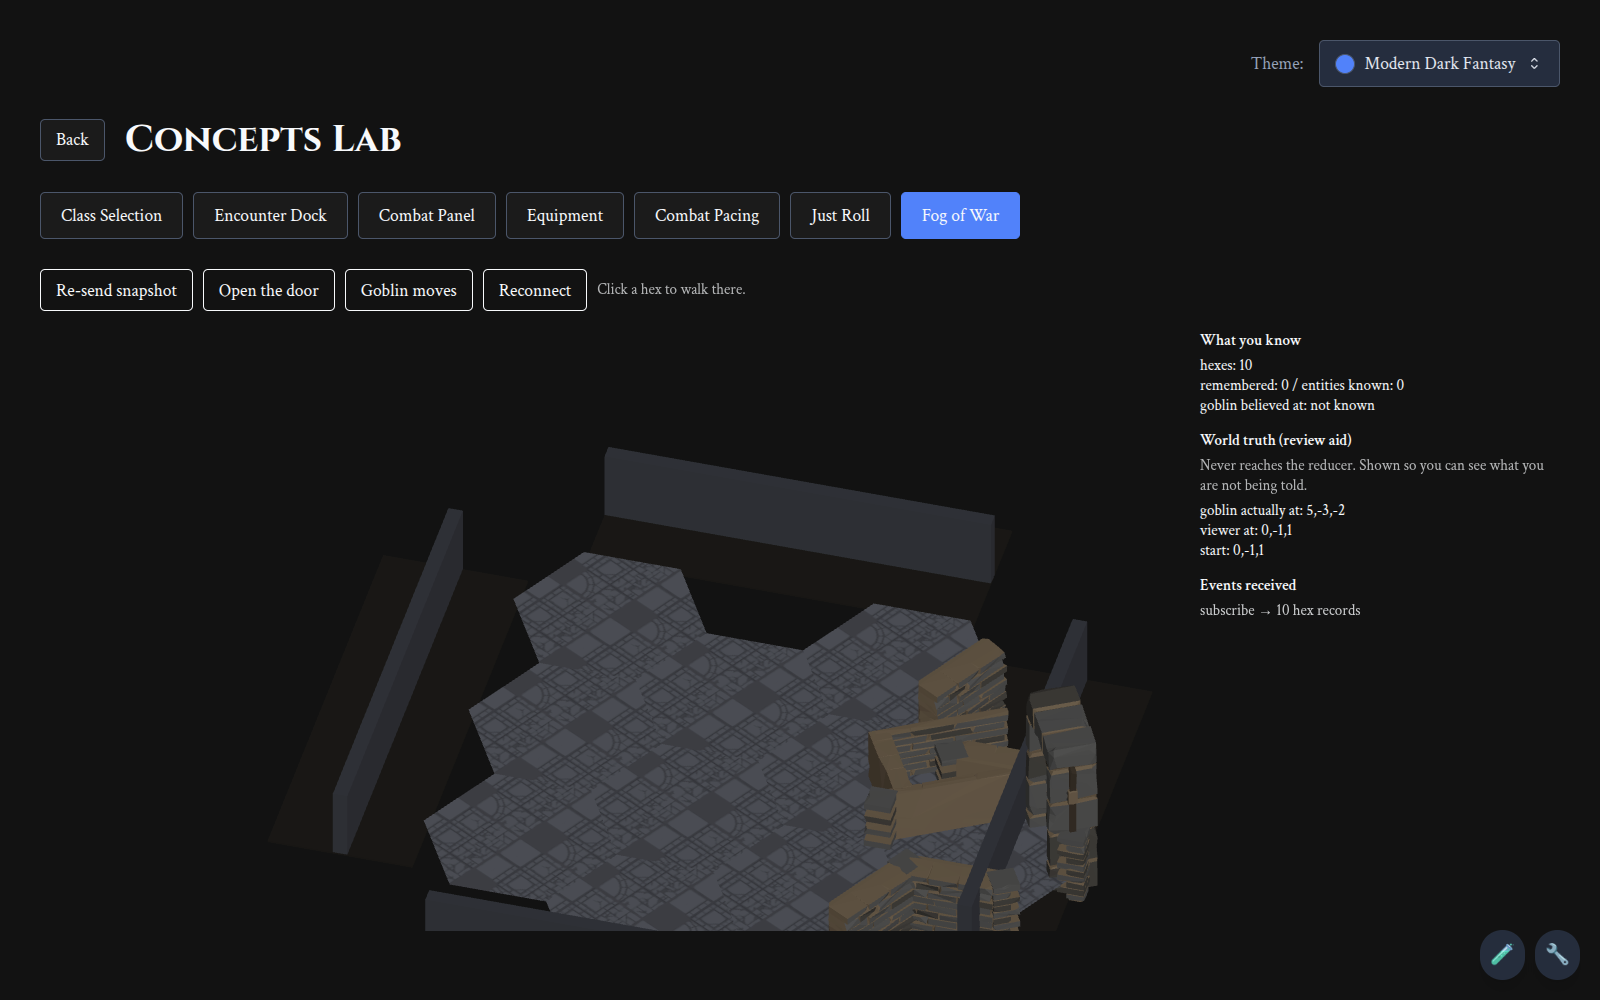
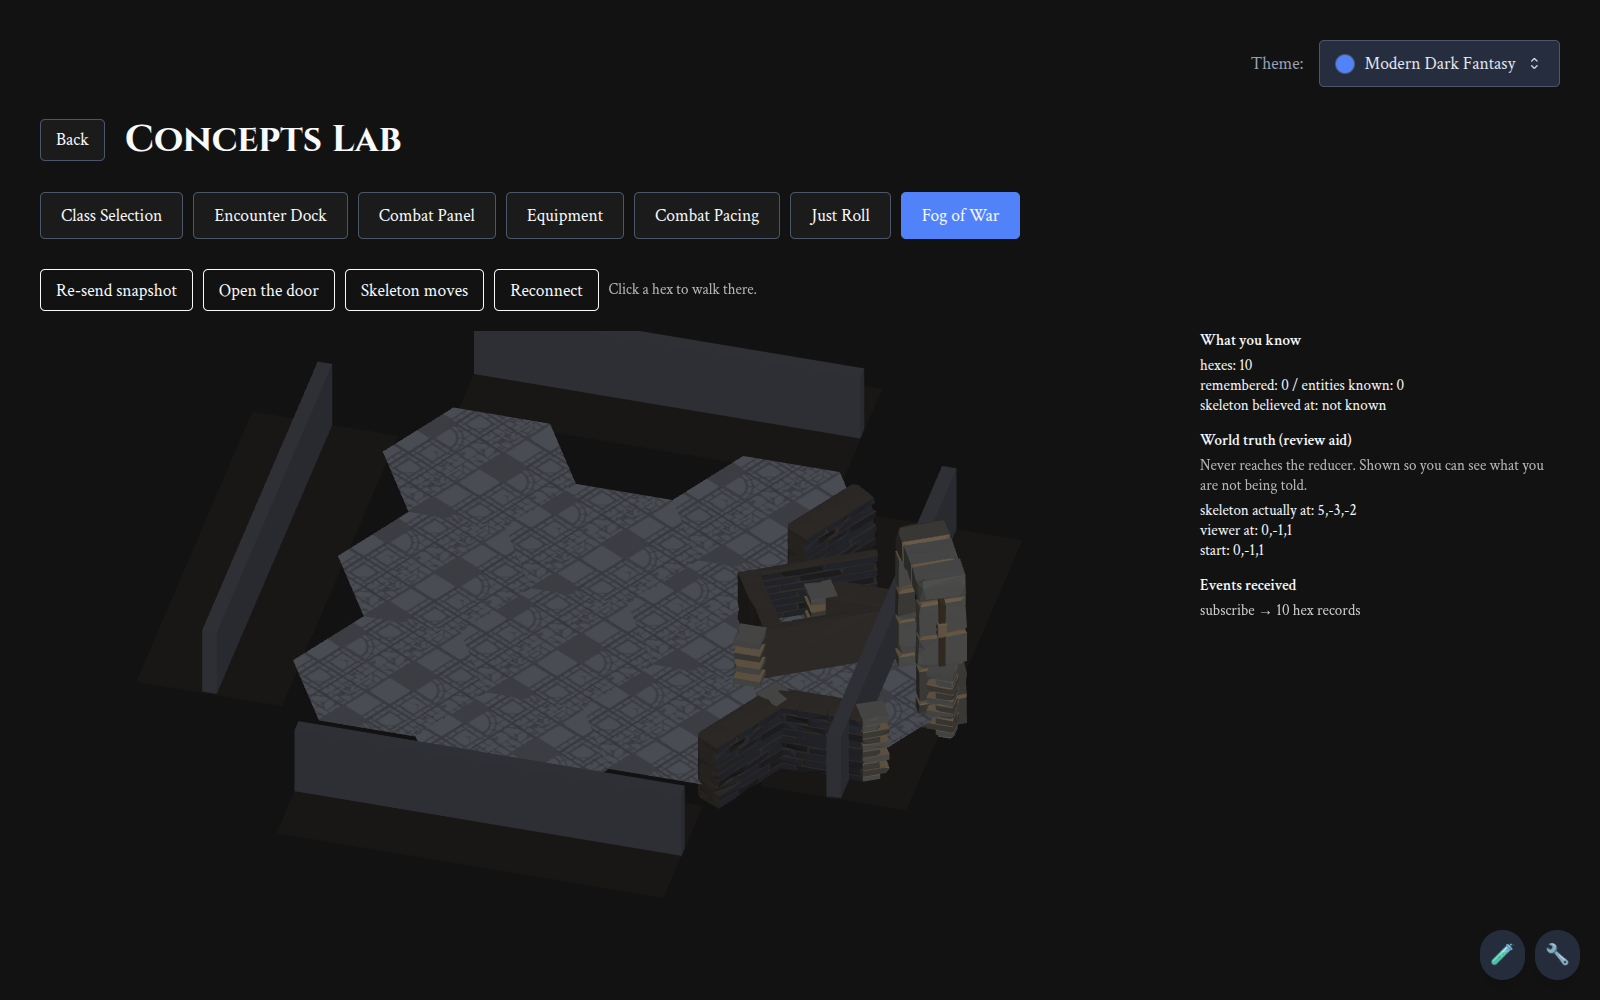
feat(fog): use the real skeleton model instead of an unmapped goblin
Kirk asked. It is also strictly better: monsterRefId 'skeleton' resolves to
/models/synty/npcs/skeleton-soldier-01.glb, while 'goblin' resolves to nothing
(monsterModels.ts documents that gap by name). The concept's monster was
therefore falling back to the cel-shaded MediumHumanoid placeholder — the
blocky red-and-green figure in the earlier evidence.

Two things follow beyond looking right. Skeletons are the crypt's actual
roster, so the concept now shows content the game really has. And the
remembered-entity treatment on ClassCharacterModel (#614) is the path a
resolving GLB takes, so the concept exercises it rather than only the
fallback.

Evidence re-captured against the real model. 02 is renamed from
02-goblin-seen.png.

Note on 03: the frozen skeleton renders in full colour because #614 is not
merged into this branch. Room B correctly goes to crypt memory around it. The
frame is honest about the gap rather than staged around it, and should be
re-taken once #614 lands.

30 tests, ci-check green.

Claude-Session: https://claude.ai/code/session_01LzdG4UCKmpJCDgh9ipiqXF

Changed region(s): [[0.125, 0.279, 0.6875, 0.93], [0.75, 0.403, 0.875, 0.434], [0.75, 0.496, 0.8438, 0.527]]

diff --git a/src/concepts/fog-of-war/reducer.test.ts b/src/concepts/fog-of-war/reducer.test.ts
@@ -18,9 +18,9 @@ import { emptyKnowledge, fogReducer } from './reducer';
 
 const at = (q: number, r: number) => ({ x: q, y: r, z: -q - r });
 
-const goblin: FogEntity = {
-  entityId: 'goblin-1',
-  name: 'Goblin',
+const skeleton: FogEntity = {
+  entityId: 'skeleton-1',
+  name: 'Skeleton',
   type: 'monster',
 };
 
@@ -44,7 +44,7 @@ const remembered = (record: HexRecord): HexRecord => ({
   state: 'REMEMBERED',
 });
 
-const facingNorth: Placement = { entityId: 'goblin-1', facing: 0 };
+const facingNorth: Placement = { entityId: 'skeleton-1', facing: 0 };
 
 describe('fog reducer', () => {
   it('first sight adds a visible hex', () => {
@@ -59,7 +59,7 @@ describe('fog reducer', () => {
   it('a remembered record carries its own frozen observation', () => {
     const seen = fogReducer(emptyKnowledge(), {
       hexes: [visible(0, 0, [facingNorth])],
-      entities: [goblin],
+      entities: [skeleton],
     });
 
     const lost = fogReducer(seen, {
@@ -70,18 +70,18 @@ describe('fog reducer', () => {
     // The server sends what the viewer observed; the client never freezes.
     expect(lost.hexes.get('0,0,0')?.state).toBe('REMEMBERED');
     expect(lost.hexes.get('0,0,0')?.contents).toEqual([facingNorth]);
-    expect(lost.entities.get('goblin-1')).toBeDefined();
+    expect(lost.entities.get('skeleton-1')).toBeDefined();
   });
 
   it('re-sight replaces memory wholesale, deleting a remembered occupant', () => {
-    // design.md case 8 — the load-bearing one. Nothing "forgets" the goblin;
+    // design.md case 8 — the load-bearing one. Nothing "forgets" the skeleton;
     // it is gone because the arriving record states the hex is empty.
-    const believesGoblinIsThere = fogReducer(emptyKnowledge(), {
+    const believesSkeletonIsThere = fogReducer(emptyKnowledge(), {
       hexes: [remembered(visible(0, 0, [facingNorth]))],
-      entities: [goblin],
+      entities: [skeleton],
     });
 
-    const walksUp = fogReducer(believesGoblinIsThere, {
+    const walksUp = fogReducer(believesSkeletonIsThere, {
       hexes: [visible(0, 0)],
       entities: [],
     });
@@ -103,17 +103,17 @@ describe('fog reducer', () => {
   });
 
   it('freezes the facing that was observed, not one seen later', () => {
-    // This viewer saw the goblin facing 0 and lost sight. The goblin later
+    // This viewer saw the skeleton facing 0 and lost sight. The skeleton later
     // turned and another viewer saw that. Facing rides on the placement, so
     // no other viewer's sighting can reach into this viewer's memory.
     const memory = fogReducer(emptyKnowledge(), {
       hexes: [remembered(visible(0, 0, [facingNorth]))],
-      entities: [goblin],
+      entities: [skeleton],
     });
 
-    // The goblin is re-disclosed, but no record arrives for the remembered
+    // The skeleton is re-disclosed, but no record arrives for the remembered
     // hex — nothing about that memory may move.
-    const later = fogReducer(memory, { hexes: [], entities: [goblin] });
+    const later = fogReducer(memory, { hexes: [], entities: [skeleton] });
 
     expect(later.hexes.get('0,0,0')?.contents).toEqual([facingNorth]);
   });
@@ -121,7 +121,7 @@ describe('fog reducer', () => {
   it('applying the same record twice is idempotent', () => {
     const event: HexKnowledgeChanged = {
       hexes: [visible(0, 0, [facingNorth])],
-      entities: [goblin],
+      entities: [skeleton],
     };
 
     const once = fogReducer(emptyKnowledge(), event);
@@ -144,12 +144,12 @@ describe('fog reducer', () => {
   it('is a pure function of the events applied', () => {
     const session: HexKnowledgeChanged[] = [
       {
-        hexes: [visible(0, 0, [{ entityId: 'goblin-1', facing: 2 }])],
-        entities: [goblin],
+        hexes: [visible(0, 0, [{ entityId: 'skeleton-1', facing: 2 }])],
+        entities: [skeleton],
       },
       {
         hexes: [
-          remembered(visible(0, 0, [{ entityId: 'goblin-1', facing: 2 }])),
+          remembered(visible(0, 0, [{ entityId: 'skeleton-1', facing: 2 }])),
         ],
         entities: [],
       },
@@ -165,11 +165,11 @@ describe('fog reducer', () => {
   it('keeps a disclosed entity known after disclosure stops', () => {
     // The entity map is the vocabulary a remembered placement resolves
     // against, so it must outlive current disclosure — otherwise the frozen
-    // goblin would have nothing to render as. This is the entity-side half of
+    // skeleton would have nothing to render as. This is the entity-side half of
     // "nothing is ever deleted".
     const seen = fogReducer(emptyKnowledge(), {
       hexes: [visible(0, 0, [facingNorth])],
-      entities: [goblin],
+      entities: [skeleton],
     });
 
     const lost = fogReducer(seen, {
@@ -179,7 +179,7 @@ describe('fog reducer', () => {
 
     const muchLater = fogReducer(lost, { hexes: [], entities: [] });
 
-    expect(muchLater.entities.get('goblin-1')).toEqual(goblin);
+    expect(muchLater.entities.get('skeleton-1')).toEqual(skeleton);
     expect(muchLater.hexes.get('0,0,0')?.contents).toEqual([facingNorth]);
   });
 });

diff --git a/src/concepts/fog-of-war/authority/authority.test.ts b/src/concepts/fog-of-war/authority/authority.test.ts
@@ -26,12 +26,12 @@ const recordAt = (
   event.hexes.find((hex) => key(hex.position) === key(at(q, r)));
 
 const inRoomB = (record: HexRecord) => record.zoneId === 'room-b';
-const goblinAt = (facing: number) => [{ entityId: 'goblin-1', facing }];
+const skeletonAt = (facing: number) => [{ entityId: 'skeleton-1', facing }];
 
-/** Viewer in Room A watching the goblin through the open doorway. */
-const watchingTheGoblin = () => {
+/** Viewer in Room A watching the skeleton through the open doorway. */
+const watchingTheSkeleton = () => {
   const world = twoRoomCrypt();
-  world.placements.set('goblin-1', { hex: at(4, 2), facing: 0 });
+  world.placements.set('skeleton-1', { hex: at(4, 2), facing: 0 });
   const authority = createAuthority(world);
   authority.subscribe();
   return { authority, opened: authority.setDoor(at(3, 1), DOOR_OPEN) };
@@ -48,7 +48,7 @@ describe('fixture authority', () => {
     // Room B is behind a closed door. It is not mentioned at all — unseen is
     // omission, not an empty record.
     expect(first.hexes.some(inRoomB)).toBe(false);
-    // Nor is the goblin standing in it disclosed.
+    // Nor is the skeleton standing in it disclosed.
     expect(first.entities).toEqual([]);
   });
 
@@ -70,7 +70,7 @@ describe('fixture authority', () => {
     authority.subscribe();
 
     const hidden = authority.mutateHidden((world) => {
-      world.placements.set('goblin-1', { hex: at(6, 0), facing: 3 });
+      world.placements.set('skeleton-1', { hex: at(6, 0), facing: 3 });
     });
 
     expect(hidden.hexes).toEqual([]);
@@ -78,23 +78,23 @@ describe('fixture authority', () => {
   });
 
   it('freezes the entity on the hex when that hex stops being visible', () => {
-    // design.md case 7. The door shuts while the goblin is standing there.
-    const { authority, opened } = watchingTheGoblin();
-    expect(recordAt(opened, 4, 2)?.contents).toEqual(goblinAt(0));
+    // design.md case 7. The door shuts while the skeleton is standing there.
+    const { authority, opened } = watchingTheSkeleton();
+    expect(recordAt(opened, 4, 2)?.contents).toEqual(skeletonAt(0));
 
     const shut = authority.setDoor(at(3, 1), DOOR_CLOSED);
     const frozen = recordAt(shut, 4, 2);
 
     expect(frozen?.state).toBe('REMEMBERED');
-    expect(frozen?.contents).toEqual(goblinAt(0));
+    expect(frozen?.contents).toEqual(skeletonAt(0));
   });
 
   it('a frozen memory survives the entity moving away unseen', () => {
-    const { authority } = watchingTheGoblin();
+    const { authority } = watchingTheSkeleton();
     authority.setDoor(at(3, 1), DOOR_CLOSED);
 
     const wandered = authority.mutateHidden((world) => {
-      world.placements.set('goblin-1', { hex: at(6, 0), facing: 3 });
+      world.placements.set('skeleton-1', { hex: at(6, 0), facing: 3 });
     });
 
     expect(wandered.hexes).toEqual([]);
@@ -102,10 +102,10 @@ describe('fixture authority', () => {
 
   it('re-sighting the frozen hex reports it empty', () => {
     // design.md case 8 — the load-bearing one, end to end.
-    const { authority } = watchingTheGoblin();
+    const { authority } = watchingTheSkeleton();
     authority.setDoor(at(3, 1), DOOR_CLOSED);
     authority.mutateHidden((world) => {
-      world.placements.set('goblin-1', { hex: at(6, 0), facing: 3 });
+      world.placements.set('skeleton-1', { hex: at(6, 0), facing: 3 });
     });
 
     const resighted = recordAt(authority.setDoor(at(3, 1), DOOR_OPEN), 4, 2);
@@ -116,9 +116,9 @@ describe('fixture authority', () => {
 
   it('an entity leaving a still-visible hex is seen to leave, not frozen', () => {
     // The other half of case 7: no ghost, because the viewer watched it go.
-    const { authority } = watchingTheGoblin();
+    const { authority } = watchingTheSkeleton();
 
-    const [walked] = authority.moveEntity('goblin-1', [at(6, 0)]);
+    const [walked] = authority.moveEntity('skeleton-1', [at(6, 0)]);
     const vacated = recordAt(walked!, 4, 2);
 
     expect(vacated?.state).toBe('VISIBLE');

diff --git a/src/concepts/fog-of-war/FogOfWarConcept.tsx b/src/concepts/fog-of-war/FogOfWarConcept.tsx
@@ -83,10 +83,10 @@ export function FogOfWarConcept() {
     [apply]
   );
 
-  const wanderGoblin = useCallback(() => {
-    apply('goblin moves', () =>
+  const wanderSkeleton = useCallback(() => {
+    apply('skeleton moves', () =>
       session.current.authority.mutateHidden((world) => {
-        const here = world.placements.get('goblin-1');
+        const here = world.placements.get('skeleton-1');
         // at(4,2) is the hex beyond the doorway, ON the open-door sightline;
         // the other two are in Room B but off it. Cycling through all three
         // lets the demo show seen, then frozen, then corrected.
@@ -95,7 +95,7 @@ export function FogOfWarConcept() {
           (spot) => here && key(spot) === key(here.hex)
         );
         const next = spots[(index + 1) % spots.length]!;
-        world.placements.set('goblin-1', {
+        world.placements.set('skeleton-1', {
           hex: next,
           facing: (index + 2) % 6,
         });
@@ -133,16 +133,16 @@ export function FogOfWarConcept() {
 
   const props = useMemo(() => toHexGridProps(knowledge), [knowledge]);
 
-  const believedGoblin = useMemo(() => {
+  const believedSkeleton = useMemo(() => {
     for (const [hexKey, record] of knowledge.hexes) {
-      if (record.contents.some((p) => p.entityId === 'goblin-1')) {
+      if (record.contents.some((p) => p.entityId === 'skeleton-1')) {
         return `${hexKey} (${record.state.toLowerCase()})`;
       }
     }
     return 'not known';
   }, [knowledge]);
 
-  const truth = session.current.world.placements.get('goblin-1');
+  const truth = session.current.world.placements.get('skeleton-1');
 
   return (
     <div className="flex flex-col gap-4">
@@ -162,10 +162,10 @@ export function FogOfWarConcept() {
         </button>
         <button
           className="px-3 py-1.5 rounded text-sm border"
-          onClick={wanderGoblin}
+          onClick={wanderSkeleton}
           disabled={!started}
         >
-          Goblin moves
+          Skeleton moves
         </button>
         <button
           className="px-3 py-1.5 rounded text-sm border"
@@ -214,7 +214,7 @@ export function FogOfWarConcept() {
               remembered: {props.rememberedFloorHexKeys.size} / entities known:{' '}
               {knowledge.entities.size}
             </div>
-            <div>goblin believed at: {believedGoblin}</div>
+            <div>skeleton believed at: {believedSkeleton}</div>
           </section>
 
           <section>
@@ -223,7 +223,9 @@ export function FogOfWarConcept() {
               Never reaches the reducer. Shown so you can see what you are not
               being told.
             </p>
-            <div>goblin actually at: {truth ? key(truth.hex) : 'unplaced'}</div>
+            <div>
+              skeleton actually at: {truth ? key(truth.hex) : 'unplaced'}
+            </div>
             <div>viewer at: {key(session.current.authority.viewerHex())}</div>
             <div>start: {key(VIEWER_START)}</div>
           </section>

diff --git a/src/concepts/fog-of-war/adapter.test.ts b/src/concepts/fog-of-war/adapter.test.ts
@@ -13,9 +13,9 @@ import { emptyKnowledge, fogReducer } from './reducer';
 
 const at = (q: number, r: number) => ({ x: q, y: r, z: -q - r });
 
-const goblin = {
-  entityId: 'goblin-1',
-  name: 'Goblin',
+const skeleton = {
+  entityId: 'skeleton-1',
+  name: 'Skeleton',
   type: 'monster' as const,
 };
 
@@ -68,10 +68,10 @@ describe('fog adapter', () => {
   it('carries knowledgeState onto occupants', () => {
     const knowledge = fogReducer(emptyKnowledge(), {
       hexes: [
-        record(0, 0, 'REMEMBERED', [{ entityId: 'goblin-1', facing: 0 }]),
-        record(1, 0, 'VISIBLE', [{ entityId: 'goblin-1', facing: 3 }]),
+        record(0, 0, 'REMEMBERED', [{ entityId: 'skeleton-1', facing: 0 }]),
+        record(1, 0, 'VISIBLE', [{ entityId: 'skeleton-1', facing: 3 }]),
       ],
-      entities: [goblin],
+      entities: [skeleton],
     });
 
     const props = toHexGridProps(knowledge);
@@ -84,14 +84,14 @@ describe('fog adapter', () => {
   });
 
   it('a visible hex with empty contents emits no entity', () => {
-    // The remembered goblin is gone from the scene because the record that
+    // The remembered skeleton is gone from the scene because the record that
     // replaced it stated the hex was empty — design.md case 8, seen from the
     // renderer's side.
     const remembered = fogReducer(emptyKnowledge(), {
       hexes: [
-        record(0, 0, 'REMEMBERED', [{ entityId: 'goblin-1', facing: 0 }]),
+        record(0, 0, 'REMEMBERED', [{ entityId: 'skeleton-1', facing: 0 }]),
       ],
-      entities: [goblin],
+      entities: [skeleton],
     });
     expect(toHexGridProps(remembered).entities).toHaveLength(1);
 

diff --git a/src/concepts/fog-of-war/authority/world.ts b/src/concepts/fog-of-war/authority/world.ts
@@ -122,17 +122,17 @@ export function twoRoomCrypt(): World {
     doorPassage: new Map([[key(at(3, 1)), at(4, 1)]]),
     entities: new Map([
       [
-        'goblin-1',
+        'skeleton-1',
         {
-          entityId: 'goblin-1',
-          name: 'Goblin',
+          entityId: 'skeleton-1',
+          name: 'Skeleton',
           type: 'monster',
-          monsterRefId: 'goblin',
+          monsterRefId: 'skeleton',
         },
       ],
     ]),
-    // The goblin starts in Room B, out of sight behind a closed door.
-    placements: new Map([['goblin-1', { hex: at(5, 0), facing: 0 }]]),
+    // The skeleton starts in Room B, out of sight behind a closed door.
+    placements: new Map([['skeleton-1', { hex: at(5, 0), facing: 0 }]]),
   };
 }
 

diff --git a/src/concepts/fog-of-war/events.ts b/src/concepts/fog-of-war/events.ts
@@ -51,8 +51,8 @@ export type HexState = 'VISIBLE' | 'REMEMBERED';
  * What occupies a hex. Resolves against the event's `entities` collection.
  *
  * `facing` rides on the placement and NOT on the entity. A record is an
- * observation: a viewer who saw a goblin facing north and lost sight must keep
- * that memory after the goblin turns and another viewer sees it face south.
+ * observation: a viewer who saw a skeleton facing north and lost sight must keep
+ * that memory after the skeleton turns and another viewer sees it face south.
  * Moving `facing` onto `FogEntity` would let one viewer's sighting rewrite
  * another viewer's memory.
  */

diff --git a/src/concepts/fog-of-war/CONTRACT.md b/src/concepts/fog-of-war/CONTRACT.md
@@ -45,7 +45,7 @@ separately-disclosed entity collection.
 ## 4. Nothing on the wire carries facing
 
 The concept needs facing per _observation_, not per entity — two viewers who
-saw the same goblin face different ways must keep different memories. Facing
+saw the same skeleton face different ways must keep different memories. Facing
 does not appear in `Hex`, `Wall`, or the entity messages.
 
 Related, and possibly the same need from a different direction:
